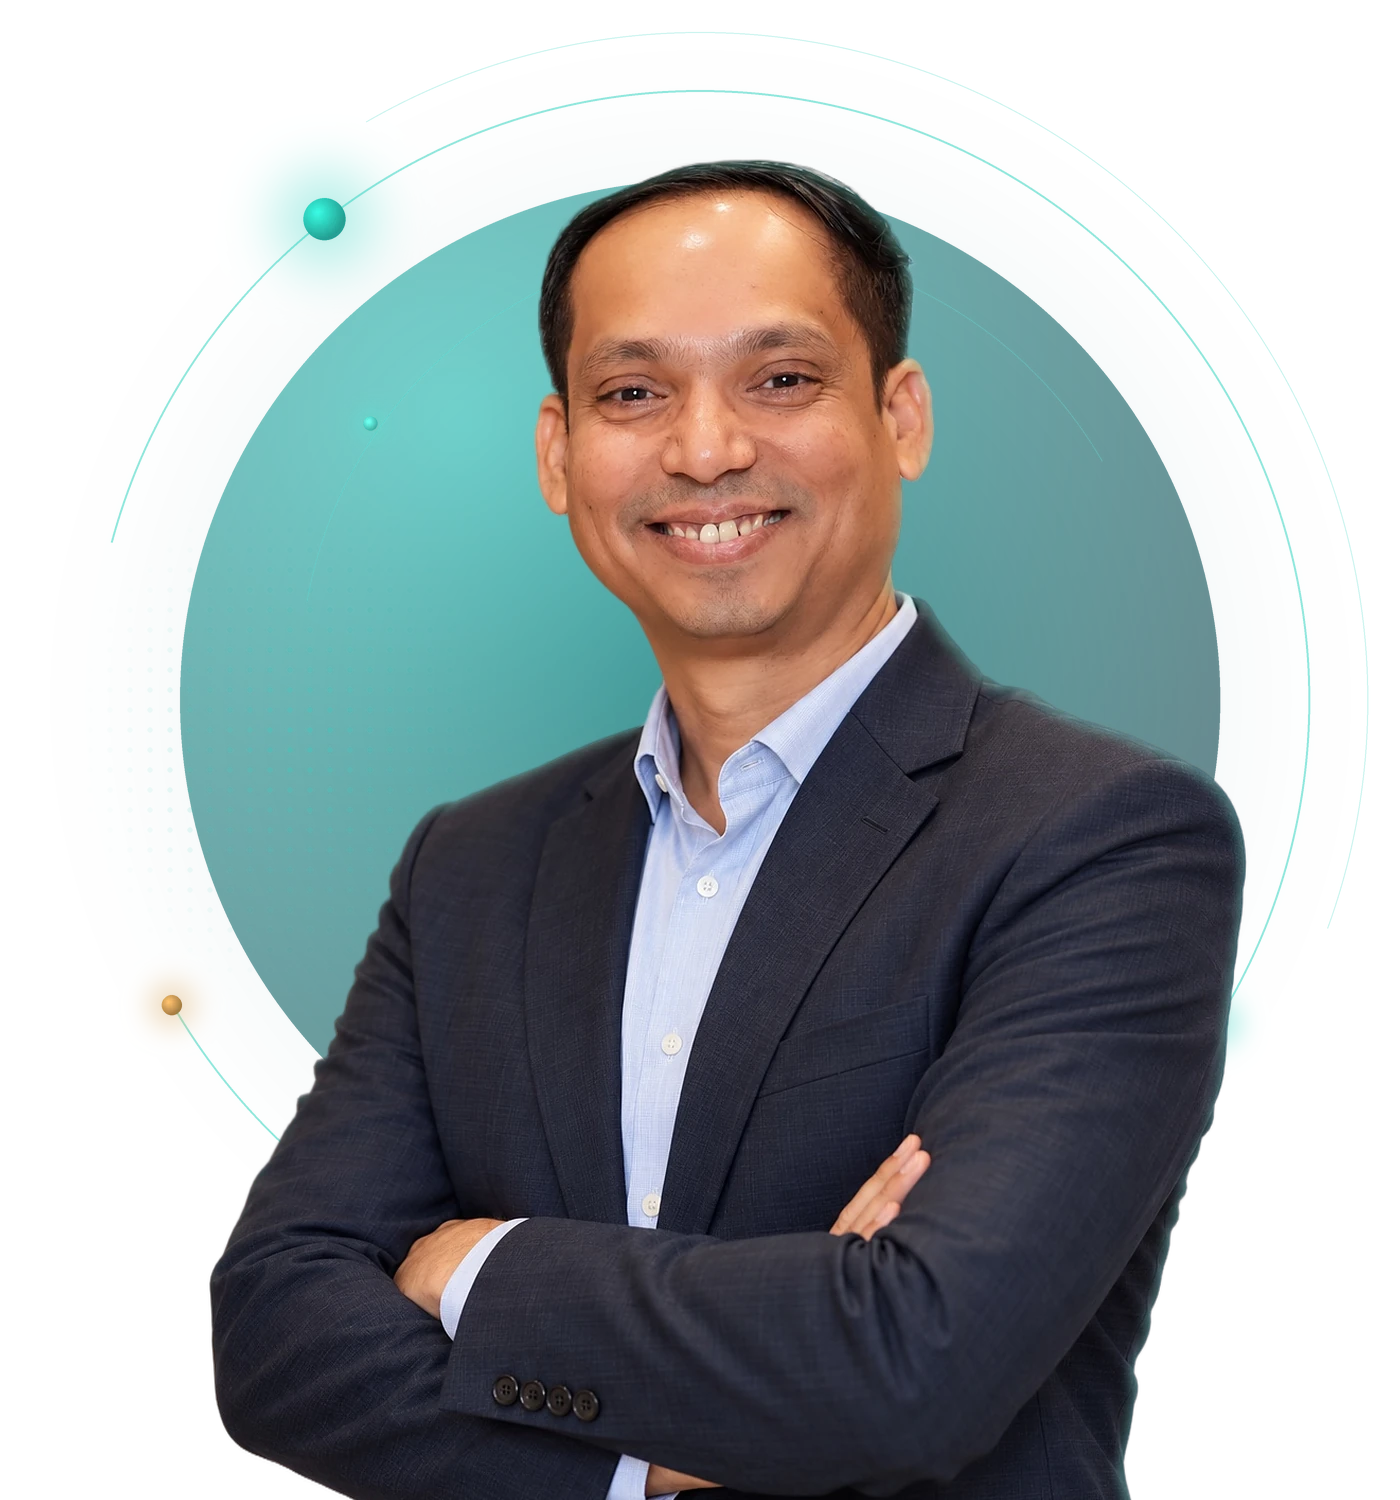
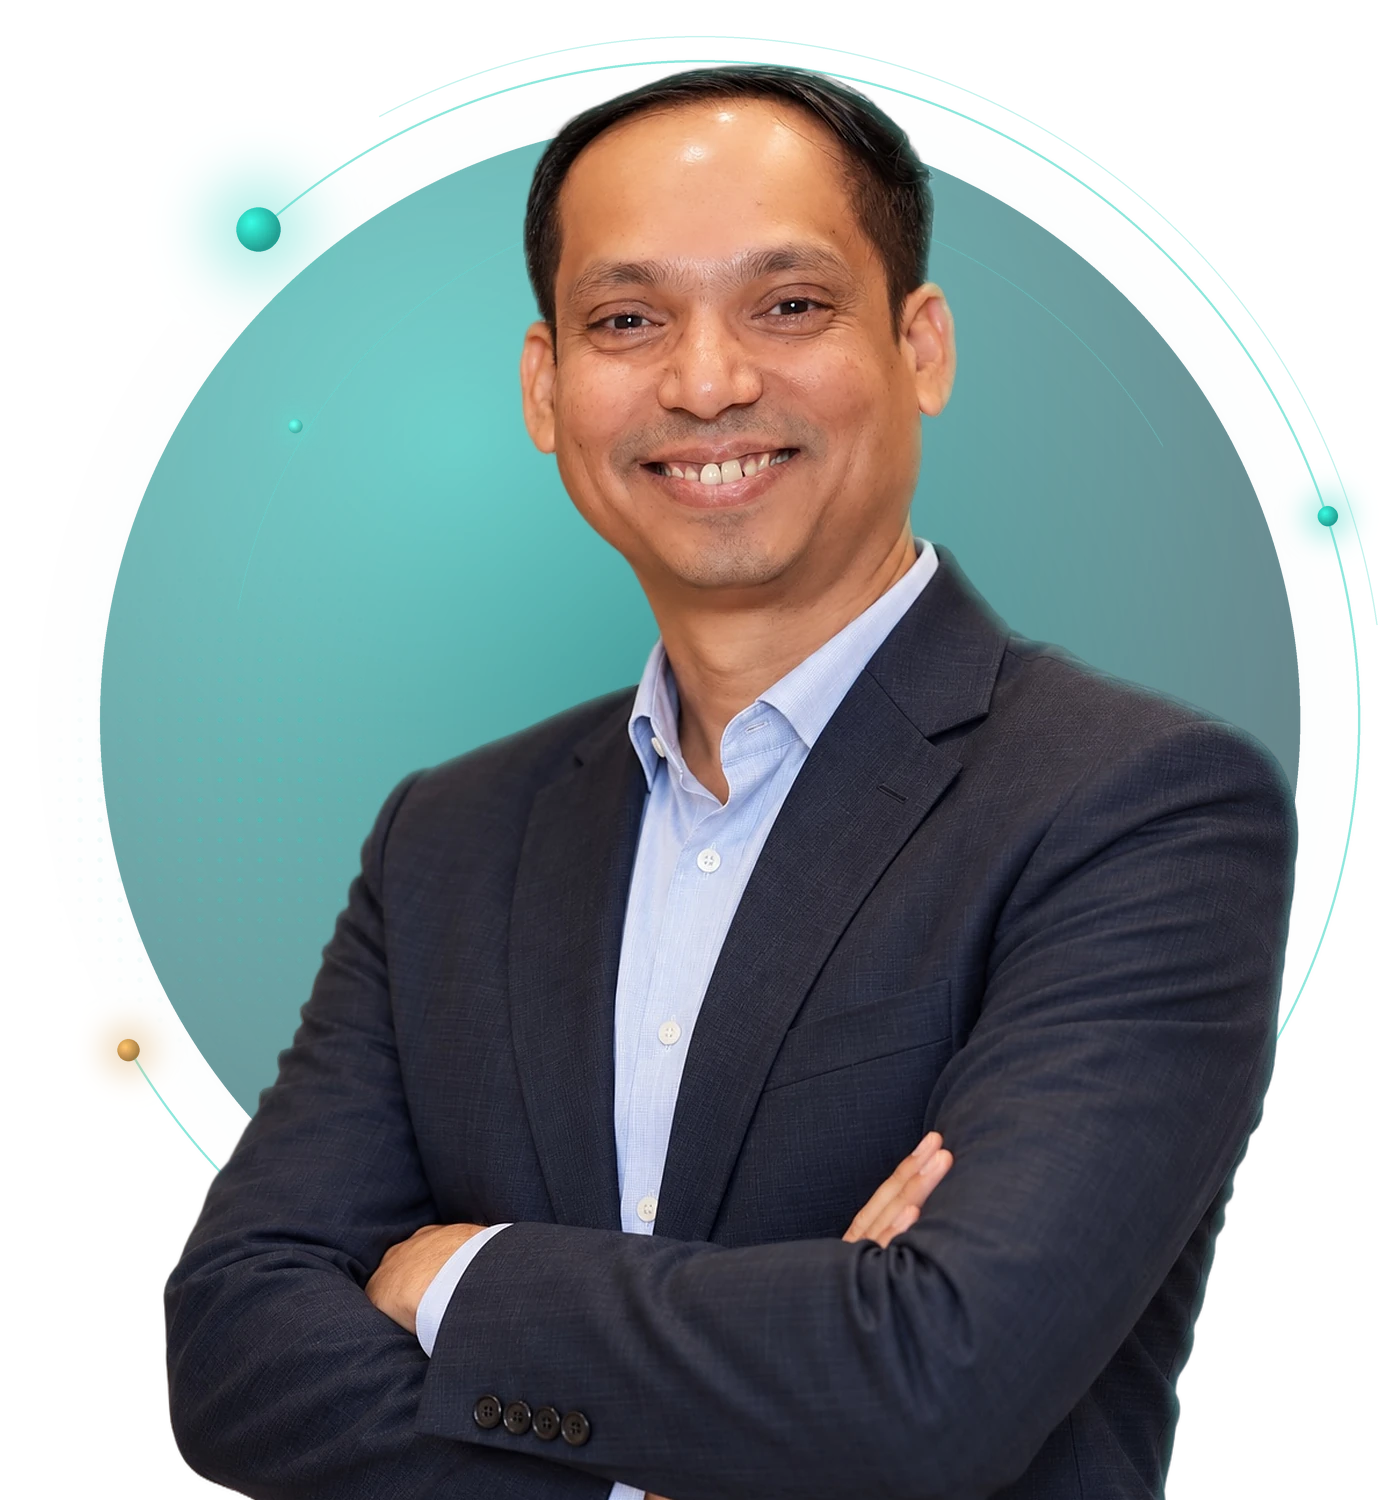
Hero: larger portrait with a bigger circle and rings; text column fixed so the headline stays on two lines
Claude-Session: https://claude.ai/code/session_01HQPXhZMbpSZ6Xkk7g48je4

diff --git a/src/styles.css b/src/styles.css
@@ -134,9 +134,9 @@ section{position:relative}
   --hero-art:var(--hero-light);background:var(--hero-art) center/cover no-repeat,var(--hero-bg);padding-top:clamp(24px,3vw,40px)}
 :root[data-theme="dark"] .hero{--hero-art:var(--hero-dark)}
 @media (prefers-color-scheme: dark){:root:not([data-theme="light"]) .hero{--hero-art:var(--hero-dark)}}
-.hero-grid{display:grid;grid-template-columns:minmax(0,1.15fr) minmax(0,.85fr);column-gap:clamp(24px,4vw,64px);align-items:end}
+.hero-grid{display:grid;grid-template-columns:minmax(0,520px) minmax(0,1fr);column-gap:clamp(16px,2vw,32px);align-items:end}
 .hero-copy{grid-column:1;grid-row:1;align-self:center;position:relative;z-index:1;padding-block:clamp(32px,4vw,56px) clamp(64px,7vw,104px);min-width:0}
-.hero-figure{grid-column:2;grid-row:1;margin:0;justify-self:end;width:calc(100% + clamp(40px,6vw,96px));max-width:620px;animation:heroArt 1.2s cubic-bezier(.2,.7,.2,1) both}
+.hero-figure{grid-column:2;grid-row:1;margin:0;justify-self:end;width:calc(100% + 140px);max-width:720px;animation:heroArt 1.2s cubic-bezier(.2,.7,.2,1) both}
 .hero-figure img{display:block;width:100%;height:auto}
 .hero-figure .hf-dark{display:none}
 :root[data-theme="dark"] .hero-figure .hf-light{display:none}
@@ -147,22 +147,22 @@ section{position:relative}
 .status .sep{opacity:.45}
 .pulse{width:8px;height:8px;border-radius:50%;background:var(--accent);box-shadow:0 0 0 0 var(--accent);animation:pulse 2.4s infinite}
 @keyframes pulse{0%{box-shadow:0 0 0 0 color-mix(in srgb,var(--accent) 60%,transparent)}70%{box-shadow:0 0 0 9px transparent}100%{box-shadow:0 0 0 0 transparent}}
-.hero h1{font-family:var(--f-display);font-size:clamp(36px,4.6vw,62px);font-weight:800;line-height:1.04;letter-spacing:-.035em;margin-top:26px;color:var(--hero-fg)}
+.hero h1{font-family:var(--f-display);font-size:clamp(34px,4.2vw,54px);font-weight:800;line-height:1.04;letter-spacing:-.035em;margin-top:26px;color:var(--hero-fg)}
 .hero h1 .thin{font-weight:500;color:var(--hero-accent)}
 .hero h1 .acc{color:var(--hero-accent)}
 .hero .sub{font:600 clamp(20px,1.9vw,26px)/1.4 var(--f-display);margin-top:24px;max-width:32ch;letter-spacing:-.015em;color:var(--hero-fg)}
-.hero .intro{font-size:clamp(17px,1.35vw,19px);line-height:1.65;color:var(--hero-muted);max-width:50ch;margin-top:16px}
+.hero .intro{font-size:clamp(17px,1.35vw,19px);line-height:1.65;color:var(--hero-muted);max-width:46ch;margin-top:16px}
 .hero-ctas{display:flex;flex-wrap:wrap;gap:12px;margin-top:34px}
 .hero .btn-ghost{color:var(--hero-fg);border-color:color-mix(in srgb,var(--hero-fg) 35%,transparent);background:color-mix(in srgb,var(--hero-fg) 4%,transparent)}
 .hero .btn-ghost:hover{border-color:var(--hero-accent);color:var(--hero-accent)}
 .hero .btn{padding:15px 26px;font-size:16px}
 .hero-meta{position:absolute;left:max(var(--gut),calc((100% - var(--wrap)) / 2 + var(--gut)));bottom:22px;font:500 11px/1 var(--f-mono);letter-spacing:.14em;color:var(--hero-muted);opacity:.7}
-@media (max-width:1100px){.hero-grid{grid-template-columns:minmax(0,1.2fr) minmax(0,.8fr)}}
+@media (max-width:1100px){.hero-grid{grid-template-columns:minmax(0,1.05fr) minmax(0,1fr)}.hero-figure{width:calc(100% + 60px)}}
 /* stacked: portrait first, centred and whole, fading into the background above the copy */
 @media (max-width:860px){
   .hero{padding-top:8px}
   .hero-grid{grid-template-columns:minmax(0,1fr)}
-  .hero-figure{grid-column:1;grid-row:1;justify-self:center;width:100%;max-width:min(440px,92%);
+  .hero-figure{grid-column:1;grid-row:1;justify-self:center;width:100%;max-width:min(500px,100%);
     -webkit-mask-image:linear-gradient(to bottom,#000 72%,transparent 98%);mask-image:linear-gradient(to bottom,#000 72%,transparent 98%)}
   .hero-copy{grid-row:2;padding-block:4px 52px;position:relative}
   .hero-meta{display:none}
